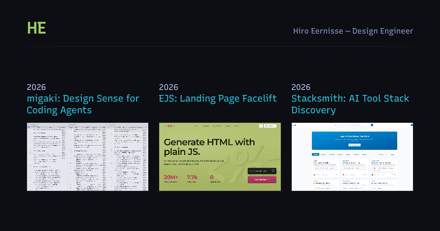
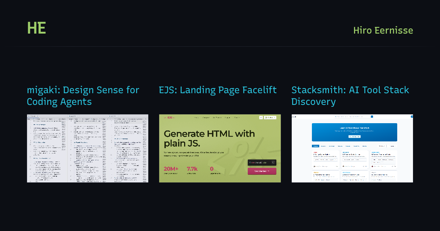
Give card B the masthead it was pretending to have, and drop the years
Hiro picked B, with two changes, and they turn out to be the same change
twice: both take something off the card that was describing it rather
than being it.

The top right read "Hiro Eernisse — Design Engineer" in --ink-soft — a
byline, wearing the site's muted tier, sitting where the eye goes second.
In --dye-name it stops being a caption about the card and becomes the far
end of a masthead: the mark's initials on the left, the name spelled out
on the right, one colour doing one job across the bar.

THE DESCRIPTOR HAD TO GO WITH THE COLOUR. --dye-name is the site's
identity green and it is spent on the mark and nothing else (the dye
block in global.css is explicit about this); letting it run through
"Design Engineer" would be the identity colour claiming a job title. It
costs nothing — the text beside the card in a feed already says the whole
line — and the descriptor is what made the slot read as metadata to begin
with. Weight 500 against the mark's 600 keeps the two ends the same voice
without making them compete.

The years came off the project cards for the reason that they were doing
nothing here. On the site the year earns its own line: the grid is a body
of work and you read it chronologically. On this card all three say 2026,
so the column set one number three times and told a stranger only that
the work is recent — a whole line of a 630px card spent on that, above
the titles, which are the thing being decided on.
[…]

Changed region(s): [[0.0591, 0.3636, 0.9455, 0.8485], [0.65, 0.1212, 0.9455, 0.1515]]

diff --git a/design/og/card-b.html b/design/og/card-b.html
@@ -12,17 +12,32 @@
 			   that repeats the words earns nothing, and a card that shows three
 			   pieces of work says the one thing the text can't.
 
-			   The card idiom is ProjectCard.astro's, not a new one — metadata
-			   above the image, 16/9 frame, 2px radius, --line border on a
+			   The card idiom is ProjectCard.astro's, not a new one — title above
+			   the image, 16/9 frame, 2px radius, --line border on a
 			   --surface-sunken bed. Straight-on and unrotated: an angled
-			   perspective deck hides the very screenshots it is showing off. */
+			   perspective deck hides the very screenshots it is showing off.
+
+			   THE YEARS ARE GONE (2026-09-01, Hiro). They earn their line on the
+			   site, where the grid is a body of work you scan chronologically.
+			   They earn nothing here: all three read 2026, so the column repeated
+			   one number three times and told the reader only that the work is
+			   recent — which the card has no room to spend a line on. The title
+			   is what a stranger is deciding on. */
 			.grid {
 				flex: 1;
 				display: grid;
 				grid-template-columns: repeat(3, 1fr);
 				gap: 28px;
 				align-content: center;
-				padding: 0 72px 8px;
+				/* Bottom padding is an OPTICAL CENTRING SHIM, not a gap anyone
+				   sees. True-centred, the block measured 116px of air above the
+				   titles and 119px below the frames — even, and even reads as
+				   low, because the masthead loads the top of the card and the eye
+				   splits the difference above centre. 28px of bottom padding
+				   lifts the block ~10px, which is the correction. It grew from
+				   8px when the years came out: a shorter block sits in more air,
+				   so it needed more of a lift, not the same one. */
+				padding: 0 72px 28px;
 			}
 
 			.proj {
@@ -41,23 +56,15 @@
 			   one-line title (EJS) floated its frame ~30px above its neighbours'
 			   and the row lost its baseline. Reserving the taller of the two cases
 			   puts every frame on one line; the shorter title just leaves air
-			   under it, which nobody reads as a gap. */
+			   under it, which nobody reads as a gap.
+
+			   90px → 64px with the years gone (2026-09-01, Hiro): the reserve is
+			   two title lines and nothing else now, so it tracks the title's own
+			   line-height rather than carrying a dead 26px where the numeral was. */
 			.meta {
 				display: flex;
 				flex-direction: column;
-				gap: 4px;
-				min-height: 90px;
-			}
-
-			/* Body ink, deliberately — the card's year is NOT --ink-num. On a card
-			   whose title already carries the cyan, a second accent puts two of
-			   them in a four-line block and the orange wins the entrance. Same
-			   reasoning as the note in ProjectCard.astro. */
-			.year {
-				font-size: 22px;
-				font-weight: 400;
-				color: var(--ink);
-				line-height: 1;
+				min-height: 64px;
 			}
 
 			.title {
@@ -79,6 +86,29 @@
 				background-clip: padding-box;
 			}
 
+			/* ── The name, set as a wordmark rather than as a caption ──
+			   This slot used to read "Hiro Eernisse — Design Engineer" in
+			   --ink-soft: a byline, styled like the site's muted tier. In green
+			   it stops being metadata about the card and becomes the second half
+			   of the masthead — the mark's initials on the left, spelled out on
+			   the right, both in --dye-name.
+
+			   The descriptor goes with the colour, and has to. "Design Engineer"
+			   in the site's one accent would be the green claiming a job title
+			   rather than a name, and --dye-name is the site's identity colour —
+			   it is spent on the mark and nowhere else (see the dye block in
+			   global.css). The line beside the card in a feed already reads
+			   "Hiro Eernisse — Design Engineer" anyway, so nothing is lost.
+
+			   Weight 500, one notch under the mark's 600: same voice, quieter,
+			   so the two ends of the bar don't compete for the same rank. */
+			.mark-full {
+				font-size: 26px;
+				font-weight: 500;
+				letter-spacing: -0.02em;
+				color: var(--dye-name);
+			}
+
 			.frame img {
 				position: absolute;
 				inset: 0;
@@ -93,13 +123,12 @@
 		<div class="card">
 			<div class="bar">
 				<span class="mark">HE</span>
-				<span class="byline">Hiro Eernisse — Design Engineer</span>
+				<span class="mark-full">Hiro Eernisse</span>
 			</div>
 			<div class="rule"></div>
 			<div class="grid">
 				<div class="proj">
 					<div class="meta">
-						<span class="year">2026</span>
 						<span class="title">migaki: Design Sense for Coding Agents</span>
 					</div>
 					<div class="frame">
@@ -108,7 +137,6 @@
 				</div>
 				<div class="proj">
 					<div class="meta">
-						<span class="year">2026</span>
 						<span class="title">EJS: Landing Page Facelift</span>
 					</div>
 					<div class="frame">
@@ -117,7 +145,6 @@
 				</div>
 				<div class="proj">
 					<div class="meta">
-						<span class="year">2026</span>
 						<span class="title">Stacksmith: AI Tool Stack Discovery</span>
 					</div>
 					<div class="frame">
